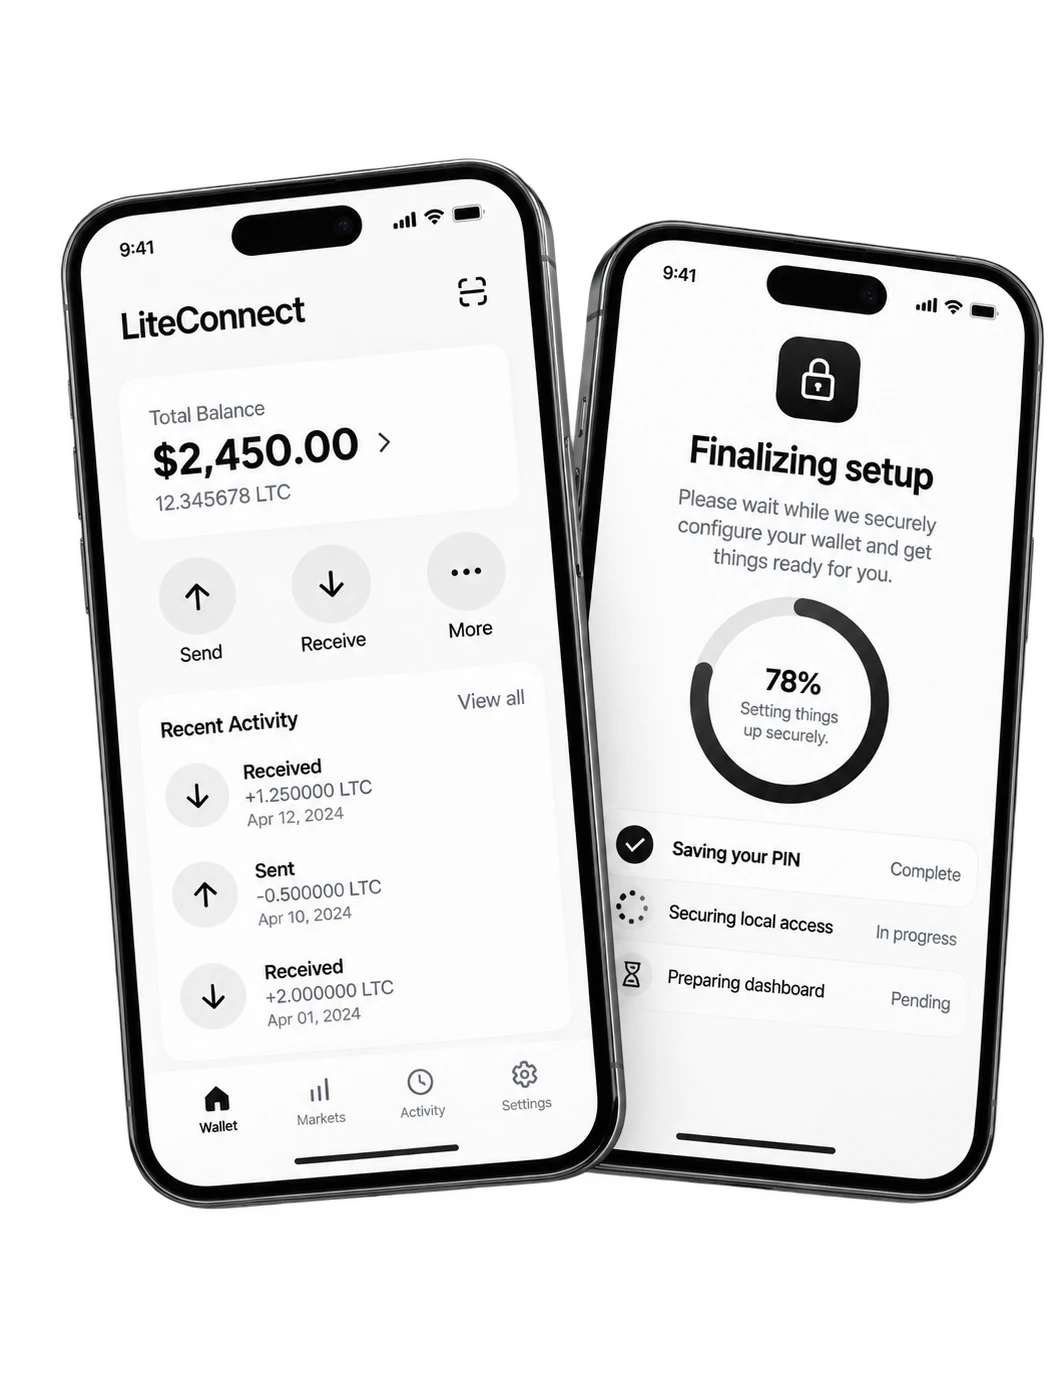
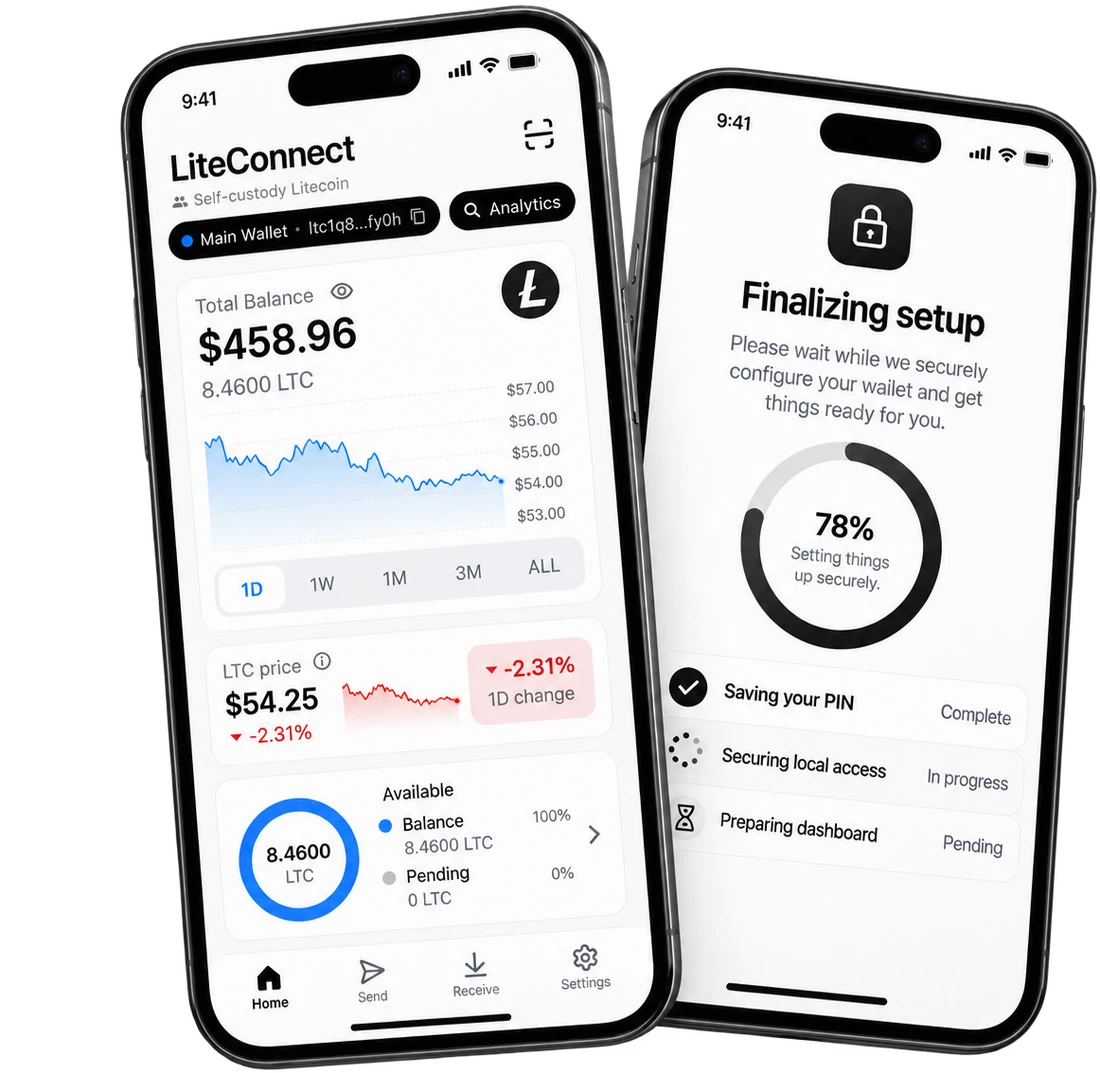
Use the render that matches the shipped app
The previous hero showed an interface this wallet does not have: a
"Markets / Activity" tab bar, a card layout that was never built. The new
one is the real thing - account pill, Analytics entry, the price card with
its sparkline, the availability ring and the Home/Send/Receive/Settings bar.

The footnote softens accordingly: it no longer has to warn that the screens
are invented, only that the balances in them are illustrative.

Changed region(s): [[0.0608, 0.0, 1.0, 1.0]]

diff --git a/src/App.tsx b/src/App.tsx
@@ -121,8 +121,8 @@ export default function App() {
               <img
                 src={asset("phones.webp")}
                 alt="LiteConnect running on two phones"
-                width={1053}
-                height={1393}
+                width={1100}
+                height={1073}
               />
             </div>
           </div>
@@ -348,8 +348,8 @@ export default function App() {
 
       <p className="shell legalese">
         {APK_SIZE} &middot; {MIN_ANDROID} or later &middot; MIT licence &middot; not
-        affiliated with the Litecoin Foundation. The phones above are a design
-        render, not screenshots of this build.
+        affiliated with the Litecoin Foundation. Device renders; the balances
+        shown in them are illustrative.
       </p>
     </div>
   )

diff --git a/src/index.css b/src/index.css
@@ -168,7 +168,7 @@ h1 {
 .prerelease strong { color: var(--ink); }
 
 .hero-art { display: flex; justify-content: center; }
-.hero-art img { width: 100%; max-width: 468px; height: auto; display: block; }
+.hero-art img { width: 100%; max-width: 560px; height: auto; display: block; }
 
 /* ---- Assurance strip --------------------------------------------- */
 .strip {
